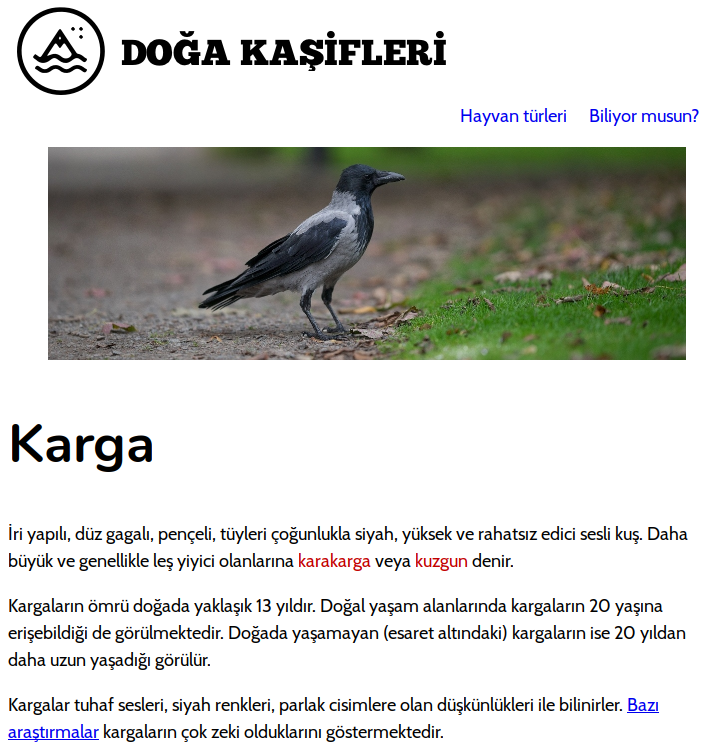
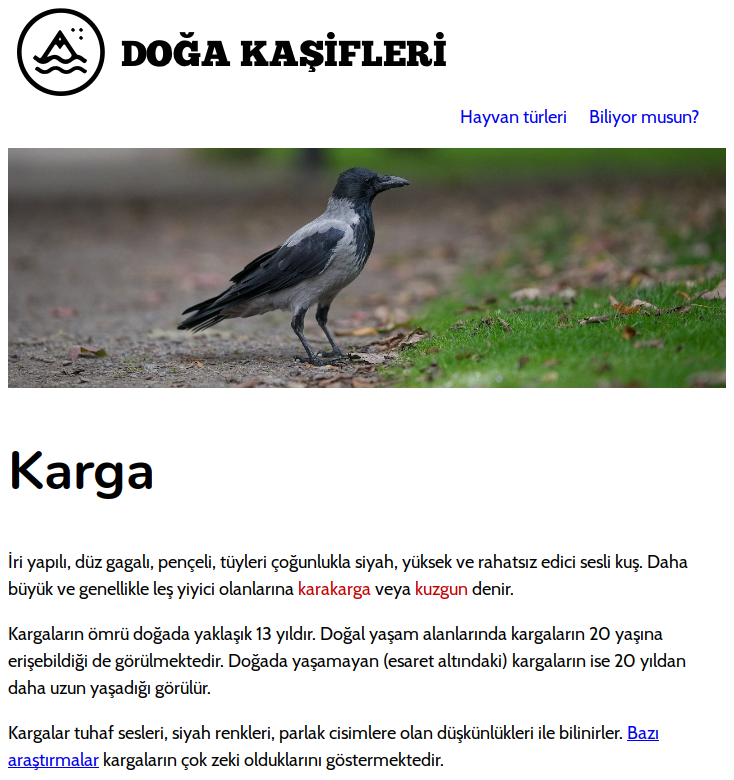
Büyük resmi kenarlara daya

diff --git a/source/css.rst b/source/css.rst
@@ -732,6 +732,11 @@
               height: auto;
             }
 
+            figure {
+              margin-left: 0;
+              margin-right: 0;
+            }
+
       .. container:: column
 
          .. image:: images/stil-id.*
